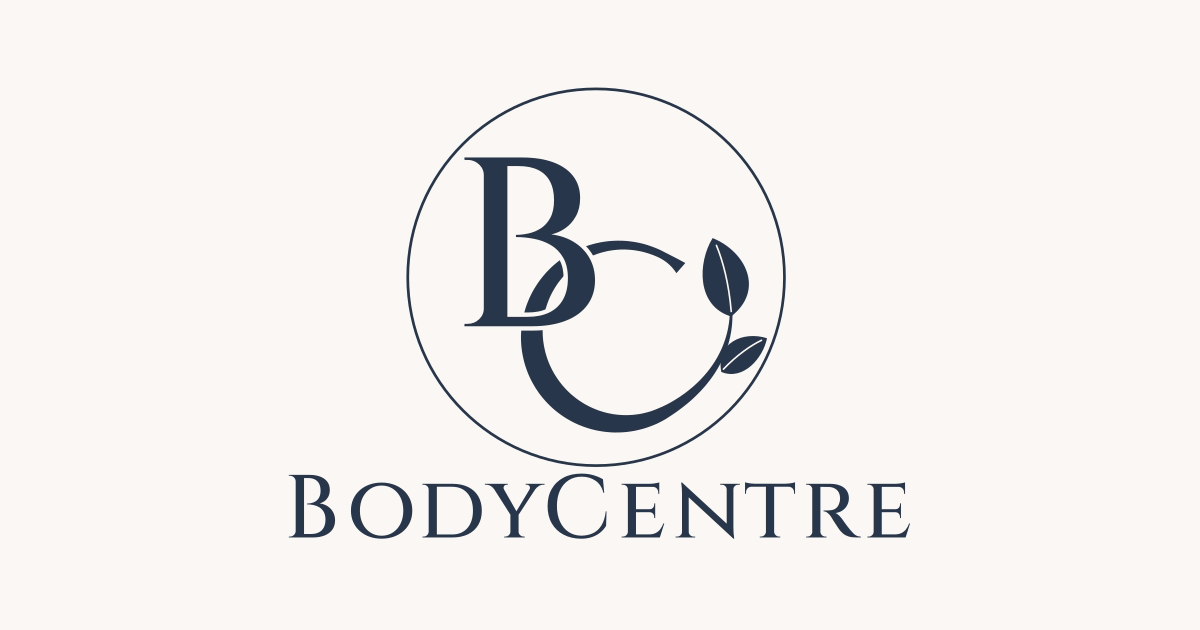
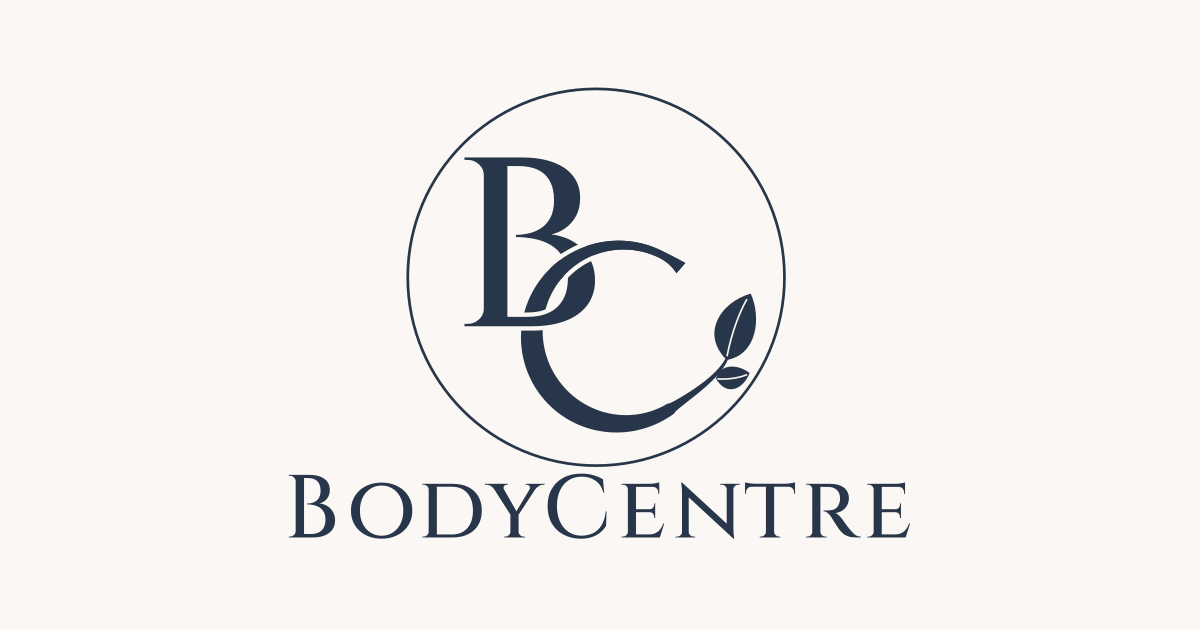
Interlace the B and C and let the leaves sprout from the tail
The C now crosses over the B's bowl at the top and under it at the bottom,
so the letters are linked rather than stacked. The C ends sooner and the
vine sweeps outward from its tail, so the leaves sit low and to the right
and the C stays open.

Changed region(s): [[0.555, 0.3619, 0.6475, 0.6333], [0.4625, 0.3921, 0.4933, 0.4524]]

diff --git a/apps/bodycentre-day-spa/brand/build_logo.py b/apps/bodycentre-day-spa/brand/build_logo.py
@@ -5,8 +5,8 @@ The original (brand/logo-original.png, from bodycentredayspa.com) is a beveled
 chrome render with glow, which traces badly. So the same design is rebuilt in
 the original's pixel coordinates: a fitted ring; the B set in Cinzel (a
 Trajan-style face like the original's); the C drawn from scratch as one
-variable-width stroke with a diagonal, engraved stress that runs behind the B
-and turns into the vine; two constructed leaves with a midrib; and the
+variable-width stroke with a diagonal, engraved stress, interlaced with the B
+(over the bowl at the top, under it at the bottom) and turning into the vine; two constructed leaves with a midrib; and the
 wordmark with each Cinzel glyph centered on the matching original glyph.
 
 Outputs: public/brand/logo.svg, mark.svg, logo.png, and public/favicon.png,
@@ -91,25 +91,34 @@ def outline(center, widths):
     return "M " + " L ".join(pt(*q) for q in left + right[::-1]) + " Z"
 
 
-def c_with_vine():
-    """The C and its vine as one stroke: an arc thickest at lower left, then a tapering curve."""
+def c_with_vine(lo=0.0, hi=400.0, vine=True):
+    """The C and its vine as one stroke: an arc thickest at lower left, then a tapering curve.
+
+    `lo`..`hi` keeps only that stretch of the arc (screen degrees), without the vine,
+    for drawing one crossing of the interlace on top.
+    """
     cx, cy, rm = 668, 515, 164
-    start, end = 360 - 48, 62  # top terminal, then around the left to the lower right
+    start, end = 360 - 48, 56  # top terminal, then around the left to the lower right
     center, widths = [], []
     for k in range(161):
         a = start + (end - start) * k / 160
+        if not lo <= a <= hi:
+            continue
         center.append((cx + rm * math.cos(math.radians(a)), cy + rm * math.sin(math.radians(a))))
         stress = ((1 + math.cos(math.radians(a - 150))) / 2) ** 1.6
         flare = 1 + 0.9 * max(0.0, 1 - k / 10) ** 2
         widths.append((13 + 30 * stress) * flare)
+    if not vine:
+        return outline(center, widths)
     tx, ty = math.sin(math.radians(end)), -math.cos(math.radians(end))
     p0 = center[-1]
-    p1, p2, p3 = (p0[0] + tx * 70, p0[1] + ty * 70), (868, 566), (870, 478)
+    # The vine sprouts outward from the tail, so the C stays open.
+    p1, p2, p3 = (p0[0] + tx * 45, p0[1] + ty * 45), (846, 594), (862, 560)
     w0 = widths[-1]
     for k in range(1, 61):
         t = k / 60
         center.append(tuple((1 - t) ** 3 * p0[i] + 3 * (1 - t) ** 2 * t * p1[i] + 3 * (1 - t) * t * t * p2[i] + t**3 * p3[i] for i in (0, 1)))
-        widths.append(w0 + (5 - w0) * t**0.8)
+        widths.append(w0 + (5 - w0) * t**0.45)
     return outline(center, widths)
 
 
@@ -133,7 +142,11 @@ def leaf(base, tip, half_width, bend):
 CX, CY, R = 622, 410, 346
 B = fit("B", (380, 190, 620, 500))
 C = c_with_vine()
-LEAVES = [leaf((870, 482), (836, 338), 46, 0.07), leaf((852, 584), (936, 522), 31, -0.08)]
+# The interlace: the C crosses the B's lower bowl twice. Past this angle (its upper
+# crossing) the C is drawn over the B; below it, the B is drawn over the C.
+SPLIT = 222
+C_OVER = c_with_vine(SPLIT - 1, 400, vine=False)
+LEAVES = [leaf((862, 562), (906, 440), 40, -0.07), leaf((842, 596), (904, 586), 23, 0.1)]
 LETTERS = [(53, 147), (177, 279), (308, 407), (424, 521), (537, 637), (670, 746), (777, 877), (899, 984), (1012, 1104), (1122, 1197)]
 WORDMARK = word("BodyCentre", 115, 888, [(a + b) / 2 for a, b in LETTERS])
 
@@ -145,12 +158,14 @@ def svg(view_box, wordmark=True, overlay=False):
     return f"""<svg xmlns="http://www.w3.org/2000/svg" viewBox="{x} {y} {w} {h}" role="img" aria-label="BodyCentre">
 {under}<defs>
 <mask id="bc-behind" maskUnits="userSpaceOnUse" x="0" y="0" width="1254" height="911"><rect width="1254" height="911" fill="#fff"/><path d="{B}" stroke="#000" stroke-width="16" stroke-linejoin="round"/></mask>
+<mask id="bc-under" maskUnits="userSpaceOnUse" x="0" y="0" width="1254" height="911"><rect width="1254" height="911" fill="#fff"/><path d="{C_OVER}" stroke="#000" stroke-width="16" stroke-linejoin="round"/></mask>
 <mask id="bc-ribs" maskUnits="userSpaceOnUse" x="0" y="0" width="1254" height="911"><rect width="1254" height="911" fill="#fff"/><g fill="none" stroke="#000" stroke-width="3" stroke-linecap="round">{"".join(f'<path d="{rib}"/>' for _, rib in LEAVES)}</g></mask>
 </defs>
 <g fill="{INK}">
 <circle cx="{CX}" cy="{CY}" r="{R}" fill="none" stroke="{INK}" stroke-width="5"/>
-<path d="{B}"/>
+<path d="{B}" mask="url(#bc-under)"/>
 <path d="{C}" mask="url(#bc-behind)"/>
+<path d="{C_OVER}"/>
 <path d="{" ".join(body for body, _ in LEAVES)}" mask="url(#bc-ribs)"/>
 {text}</g>
 </svg>
